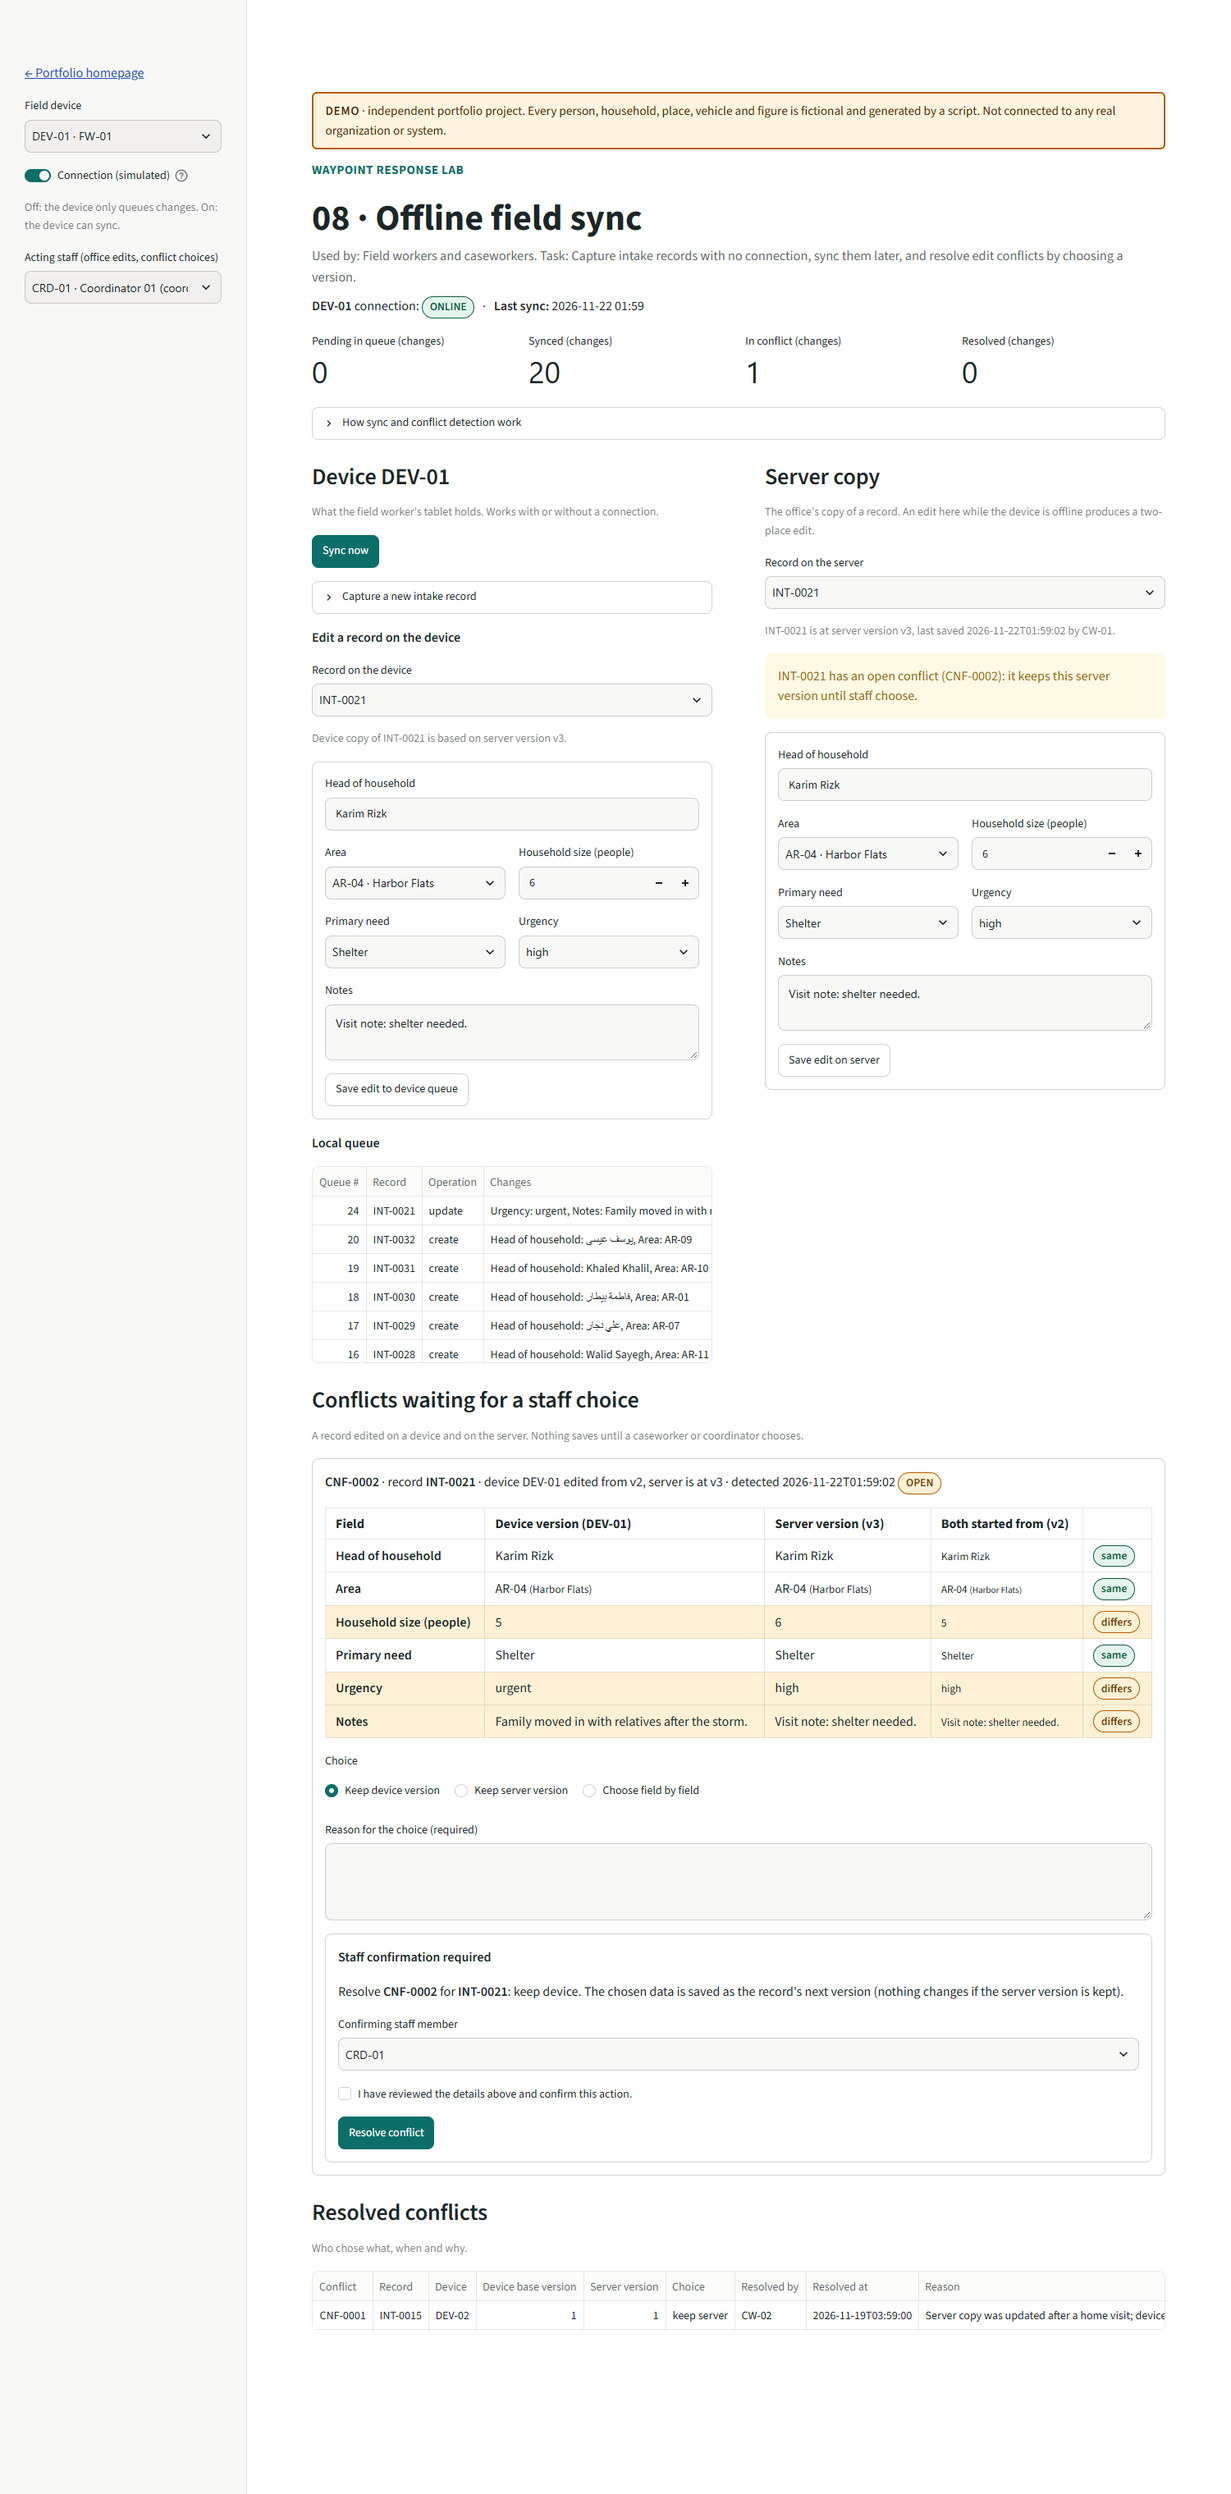
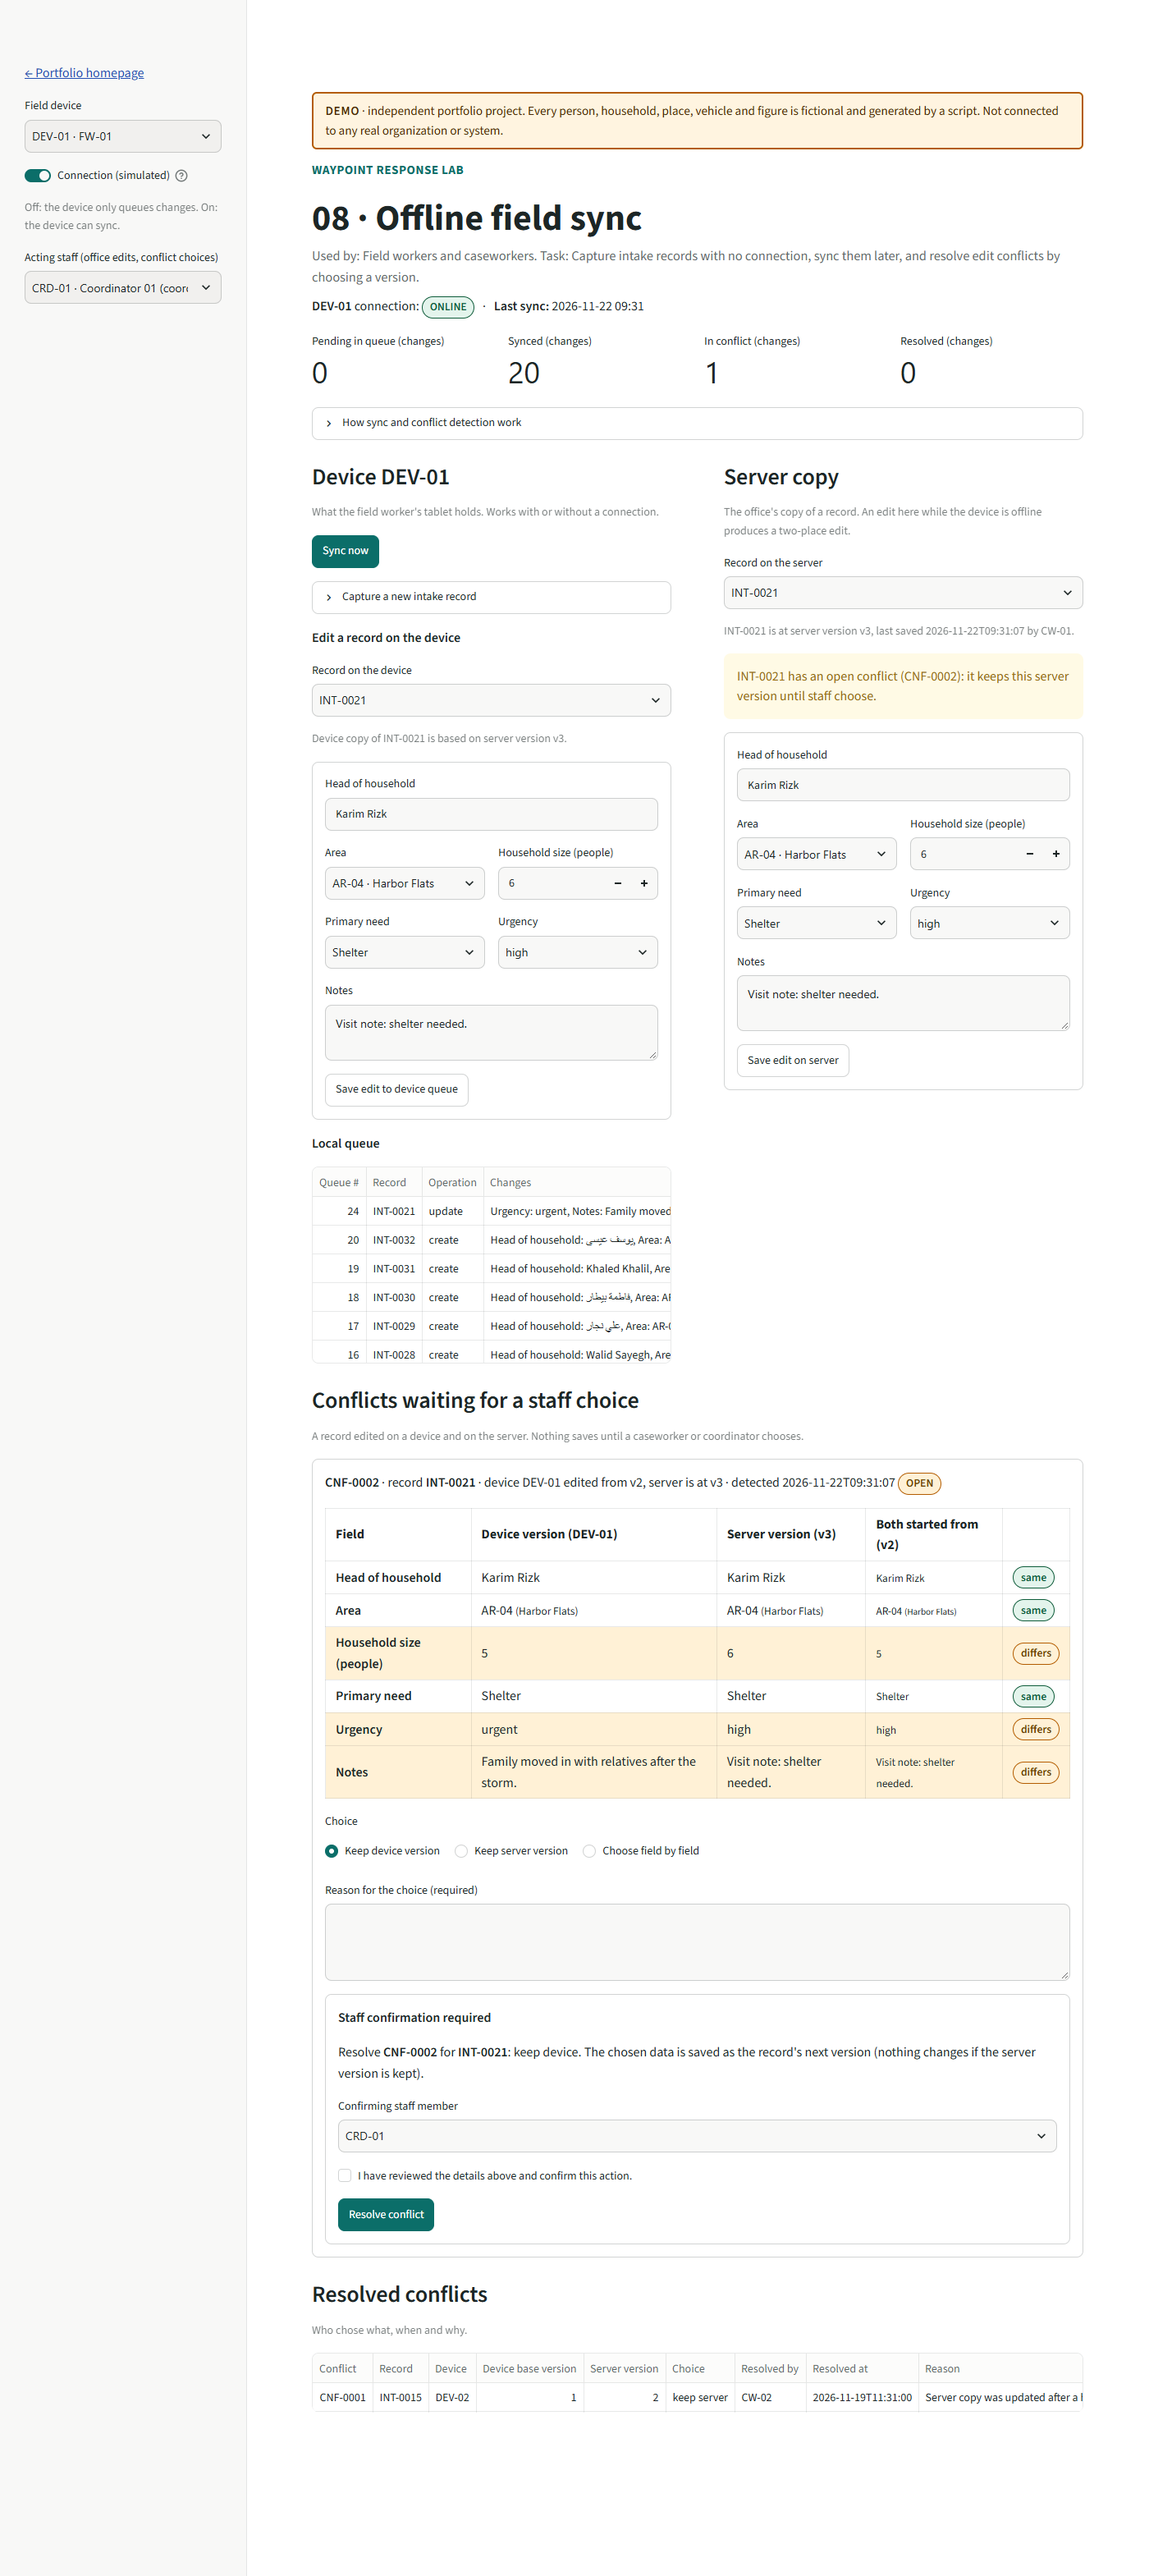
Project 08: review fixes, status built; seed: CNF-0001 is a real conflict

diff --git a/tests/test_p08_offline_sync.py b/tests/test_p08_offline_sync.py
@@ -322,3 +322,10 @@ def test_app_walkthrough_conflict_then_resolve(app_test, db_path: Path) -> None:
         rec = record(c, rid)
         assert rec["version"] == version + 2 and rec["household_size"] == size + 1 and rec["urgency"] == "urgent"
         assert c.execute("SELECT resolved_by FROM sync_conflicts WHERE conflict_id = ?", (cid,)).fetchone()[0] == "CW-01"
+
+
+def test_seeded_conflict_is_a_real_conflict(conn: sqlite3.Connection) -> None:
+    """The seeded past conflict must have been a two-place edit: the device's base is older than the server version."""
+    rows = conn.execute("SELECT base_version, server_version FROM sync_conflicts").fetchall()
+    assert rows
+    assert all(r["base_version"] < r["server_version"] for r in rows)

diff --git a/shared/seed.py b/shared/seed.py
@@ -720,7 +720,7 @@ class Seeder:
                 updated_by=creator,
             )
             n_versions = 1 + (n % 3 if source != "data_entry" else 0)
-            if rid == "INT-0021":
+            if rid in ("INT-0015", "INT-0021"):
                 n_versions = 2
             for v in range(1, n_versions + 1):
                 when = created + timedelta(hours=6 * (v - 1))

diff --git a/projects/08-offline-field-sync/README.md b/projects/08-offline-field-sync/README.md
@@ -69,7 +69,7 @@ Also try: choose **DEV-03** (offline, 2 pending changes), turn its connection on
 
 ## Tests
 
-`tests/test_p08_offline_sync.py` (20 tests) covers:
+`tests/test_p08_offline_sync.py` (21 tests) covers:
 
 - offline capture queues a pending create with a device-scoped ID and `sync_device` refuses while offline;
 - syncing online creates the record at version 1 and records the last sync time;
